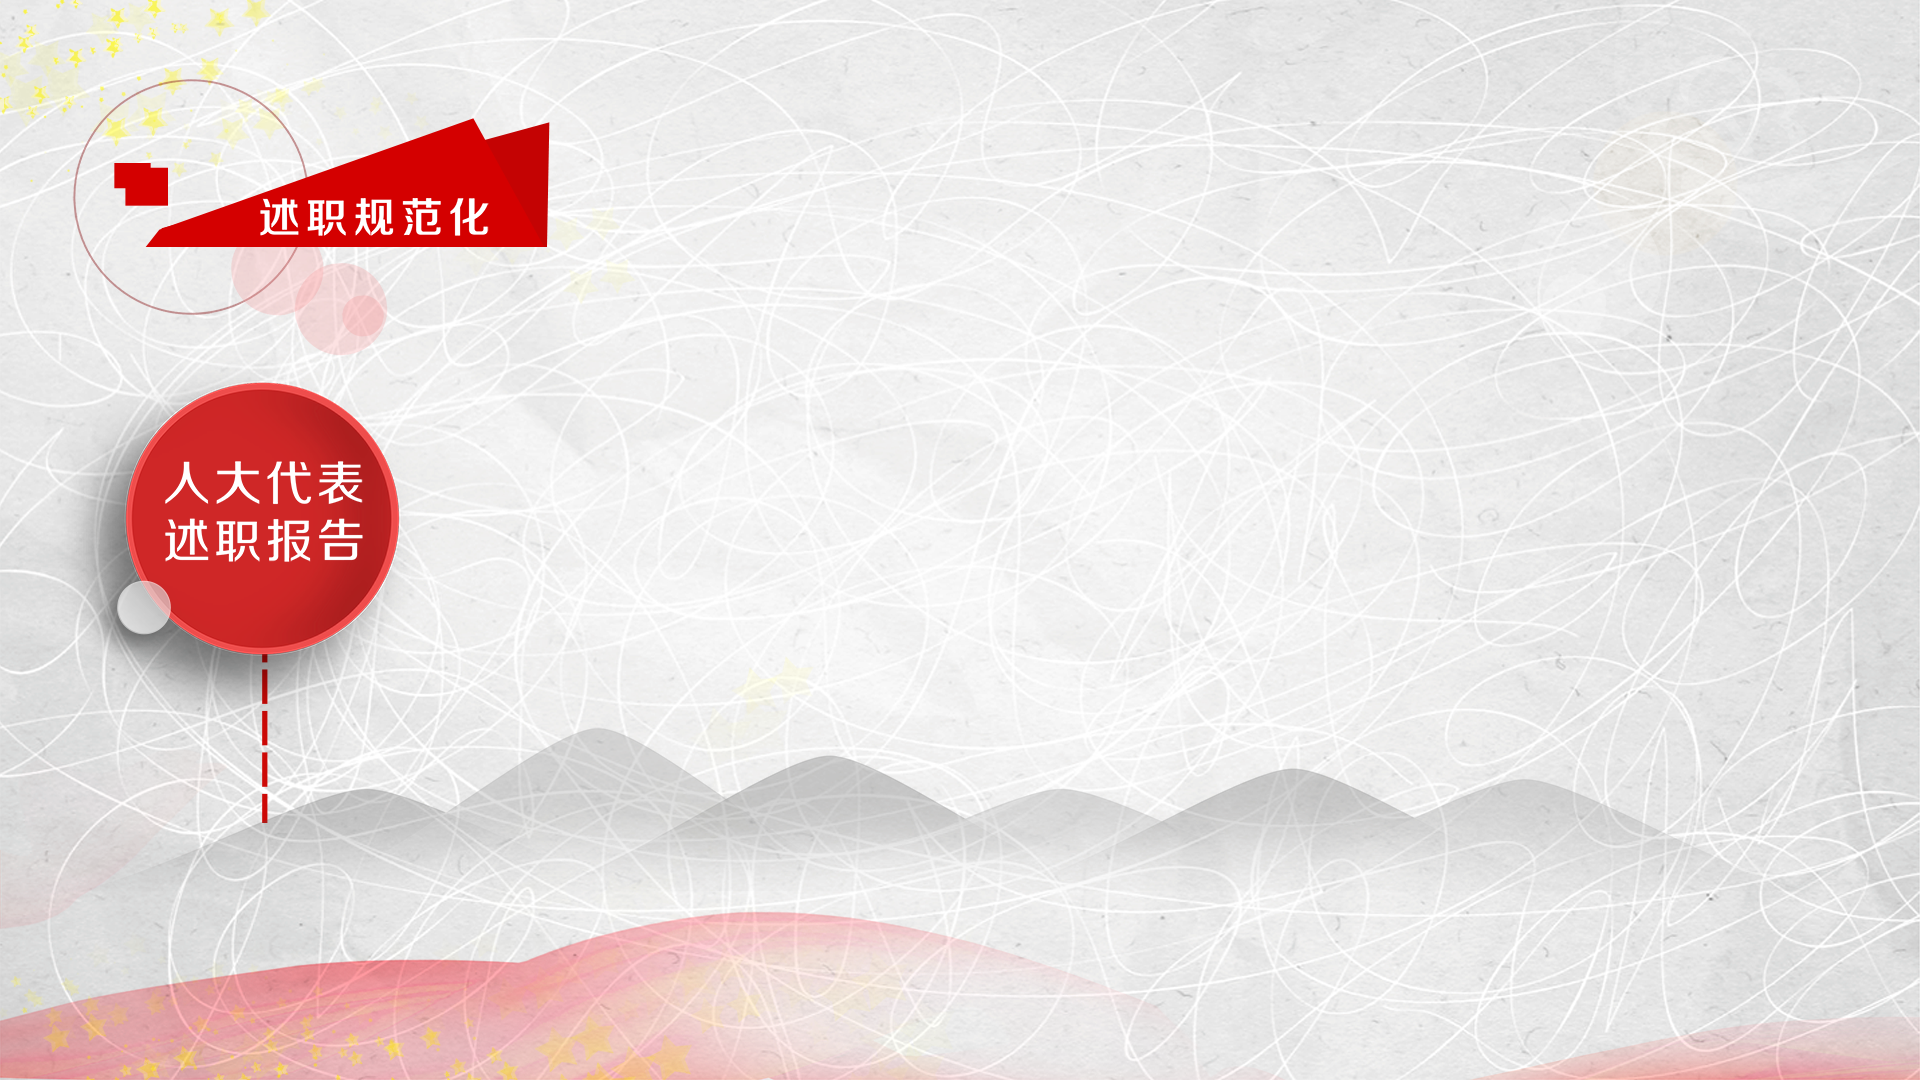
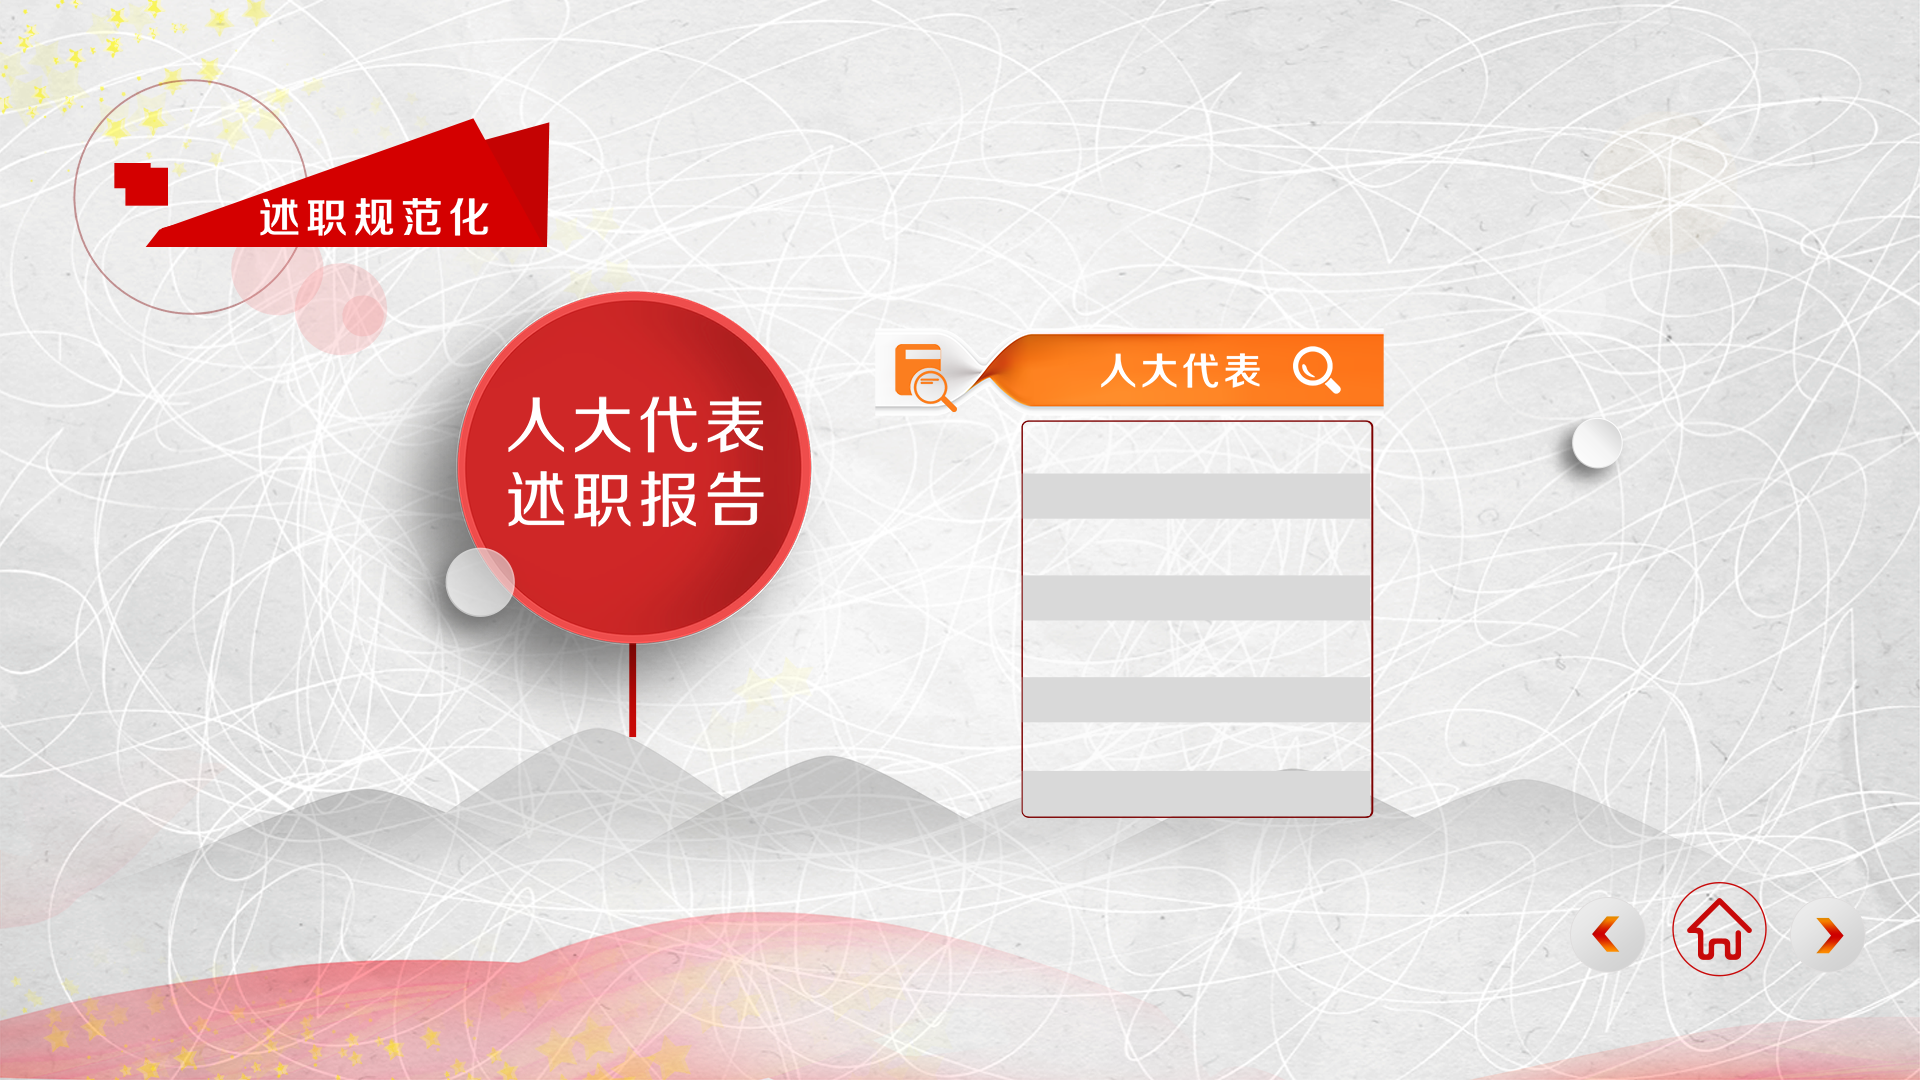
2016-09-22 00:27

diff --git a/src/components/2/2/Index.jsx b/src/components/2/2/Index.jsx
@@ -5,8 +5,9 @@ import Helper from '../../../common/Helper'
 import styles from './Index.less'
 
 let self
+let page = 1
+const limit = 8
 let list = []
-let count
 
 class Detail extends Component {
 
@@ -17,22 +18,12 @@ class Detail extends Component {
 
     this.state = {
       isLoad: false,
-      list: []
+      sonlist: []
     }
-
-    count = -1
   }
 
   componentDidMount() {
-    if(list.length == 0) {
-      self.load()
-    } else {
-      self.setState({
-        list: list
-      })
-
-      self.onClickMenu(list[0].id)
-    }
+    self.load()
   }
 
   load = function() {
@@ -48,11 +39,11 @@ class Detail extends Component {
       success: function(data) {
         list = data
 
-        self.setState({
-          list: data
-        })
+        self.count()
 
-        self.onClickMenu(data[0].id)
+        if(data.length > 0) {
+          self.onClickMenu(data[0].id)
+        }
       },
       complete: function() {
         self.setState({
@@ -60,6 +51,55 @@ class Detail extends Component {
         })
       }
     })
+  }
+
+  count() {
+    let array = []
+
+    let start = (page - 1) * limit
+    let end = start + limit
+
+    for(let i = 0; i < list.length; i++) {
+      if(i >= start && i < end) {
+        array.push(list[i])
+      }
+    }
+
+    self.setState({
+      sonlist: array
+    })
+  }
+
+  onClickUp() {
+    event.preventDefault()
+
+    if(page > 1) {
+      page--
+
+      this.count()
+    }
+  }
+
+  onClickDown() {
+    event.preventDefault()
+
+    if(page < Math.ceil(list.length / limit)) {
+      page++
+
+      this.count()
+    }
+  }
+
+  onClickLeft() {
+    event.preventDefault()
+
+    this.props.socket.emit('up', '')
+  }
+
+  onClickRight() {
+    event.preventDefault()
+
+    this.props.socket.emit('down', '')
   }
 
   onClickMenu(id) {
@@ -80,24 +120,12 @@ class Detail extends Component {
     return (
       <Spin size="large" spinning={this.state.isLoad}>
 	      <div className={styles.bg}>
-	      	<div className={styles.menu}>
+	      	<div className={styles.list}>
 	      		{
-	            this.state.list.map(function (item, index) {
-	            	if(index % 11 == 0) {
-	            		count++
-	            	}
+	            this.state.sonlist.map(function (item, index) {
 	              return (
-	              	<div key={index} >
-	              	{
-					            count % 2 == 0 ?
-			              	<div className={styles.menuItem0}>
-			              			<div className={styles.menuItemFont0} onClick={this.onClickMenu.bind(this, item.id)}>{item.personname}</div>
-			              	</div>
-			              	:
-			              	<div className={styles.menuItem1}>
-			              			<div className={styles.menuItemFont1} onClick={this.onClickMenu.bind(this, item.id)}>{item.personname}</div>
-			              	</div>
-					        }
+	              	<div key={index} className={styles.listItem} onClick={this.onClickMenu.bind(this, item.id)}>
+                    {item.personname}
 					        </div>
 	              )
 	            }.bind(this))
@@ -105,6 +133,12 @@ class Detail extends Component {
 	      	</div>
 	        <div className={styles.back} onClick={this.onClickBack.bind(this)}></div>
 	      </div>
+        <div className={styles.button}>
+          <div className={styles.button_0} onClick={this.onClickUp.bind(this)}></div>
+          <div className={styles.button_1} onClick={this.onClickDown.bind(this)}></div>
+        </div>
+        <div className={styles.menu_0} onClick={this.onClickLeft.bind(this)}></div>
+        <div className={styles.menu_1} onClick={this.onClickRight.bind(this)}></div>
       </Spin>
     )
   }

diff --git a/src/components/2/2/Index copy.jsx b/src/components/2/2/Index copy.jsx
@@ -1,0 +1,113 @@
+import React, { Component } from 'react'
+import { withRouter } from 'react-router'
+import { Spin } from 'antd'
+import Helper from '../../../common/Helper'
+import styles from './Index.less'
+
+let self
+let list = []
+let count
+
+class Detail extends Component {
+
+  constructor(props) {
+    super(props)
+
+    self = this
+
+    this.state = {
+      isLoad: false,
+      list: []
+    }
+
+    count = -1
+  }
+
+  componentDidMount() {
+    if(list.length == 0) {
+      self.load()
+    } else {
+      self.setState({
+        list: list
+      })
+
+      self.onClickMenu(list[0].id)
+    }
+  }
+
+  load = function() {
+    self.setState({
+      isLoad: true
+    })
+
+    Helper.ajax({
+      url: '/services/xzgfhPageContentML/4',
+      data: {
+
+      },
+      success: function(data) {
+        list = data
+
+        self.setState({
+          list: data
+        })
+
+        self.onClickMenu(data[0].id)
+      },
+      complete: function() {
+        self.setState({
+          isLoad: false
+        })
+      }
+    })
+  }
+
+  onClickMenu(id) {
+    event.preventDefault()
+
+    this.props.socket.emit('open', id)
+  }
+
+  onClickBack() {
+    event.preventDefault()
+
+    this.props.socket.emit('back', '')
+
+    self.props.router.goBack()
+  }
+
+  render() {
+    return (
+      <Spin size="large" spinning={this.state.isLoad}>
+	      <div className={styles.bg}>
+	      	<div className={styles.menu}>
+	      		{
+	            this.state.list.map(function (item, index) {
+	            	if(index % 11 == 0) {
+	            		count++
+	            	}
+	              return (
+	              	<div key={index} >
+	              	{
+					            count % 2 == 0 ?
+			              	<div className={styles.menuItem0}>
+			              			<div className={styles.menuItemFont0} onClick={this.onClickMenu.bind(this, item.id)}>{item.personname}</div>
+			              	</div>
+			              	:
+			              	<div className={styles.menuItem1}>
+			              			<div className={styles.menuItemFont1} onClick={this.onClickMenu.bind(this, item.id)}>{item.personname}</div>
+			              	</div>
+					        }
+					        </div>
+	              )
+	            }.bind(this))
+	          }
+	      	</div>
+	        <div className={styles.back} onClick={this.onClickBack.bind(this)}></div>
+	      </div>
+      </Spin>
+    )
+  }
+}
+
+export default withRouter(Detail)

diff --git a/src/components/2/2/Index.less b/src/components/2/2/Index.less
@@ -57,3 +57,58 @@
     background-repeat: no-repeat;
     cursor: pointer;
 }
+.list {
+    position: absolute;
+    top: 423px;
+    left: 1024px;
+    width: 359px;
+    height: 401px;
+}
+.listItem {
+    height: 50px;
+    text-align: center;
+    color: #fe8321;
+    font-size: 26px;
+    cursor: pointer;
+}
+.menu_0 {
+    position: absolute;
+    top: 890px;
+    left: 1568px;
+    width: 78px;
+    height: 78px;
+    cursor: pointer;
+}
+.menu_1 {
+    position: absolute;
+    top: 890px;
+    left: 1785px;
+    width: 78px;
+    height: 78px;
+    cursor: pointer;
+}
+.button {
+    position: absolute;
+    top: 320px;
+    left: 1520px;
+    width: 332px;
+    height: 530px;
+    background-image: url("../../../assets/image/button_up_down.png");
+    background-repeat: no-repeat;
+}
+.button_0 {
+    position: absolute;
+    top: 42px;
+    left: 110px;
+    width: 180px;
+    height: 180px;
+    cursor: pointer;
+}
+.button_1 {
+    position: absolute;
+    top: 250px;
+    left: 110px;
+    width: 180px;
+    height: 180px;
+    cursor: pointer;
+}

diff --git a/src/components/1/Detail.less b/src/components/1/Detail.less
@@ -56,7 +56,7 @@
 }
 .title {
     position: absolute;
-    top: 370px;
+    top: 420px;
     left: 990px;
     width: 500px;
     height: 30px;
@@ -65,16 +65,16 @@
 }
 .list {
     position: absolute;
-    top: 450px;
+    top: 500px;
     left: 990px;
     width: 540px;
     height: 600px;
 }
 .listItem {
-    height: 48px;
+    height: 49px;
     text-align: center;
     color: #fe8321;
-    font-size: 26px;
+    font-size: 25px;
     cursor: pointer;
 }
 .back {
@@ -85,5 +85,13 @@
     height: 95px;
     background-image: url("../../assets/image/button_back.png");
     background-repeat: no-repeat;
+    cursor: pointer;
+}
+.case {
+    position: absolute;
+    top: 277px;
+    left: 820px;
+    width: 728px;
+    height: 75px;
     cursor: pointer;
 }

diff --git a/src/components/1/Detail.jsx b/src/components/1/Detail.jsx
@@ -164,6 +164,7 @@ class Detail extends Component {
           <div className={styles.menu_0} onClick={this.onClickLeft.bind(this)}></div>
           <div className={styles.menu_1} onClick={this.onClickRight.bind(this)}></div>
           <div className={styles.back} onClick={this.onClickBack.bind(this)}></div>
+          <div className={styles.case}></div>
         </div>
       </Spin>
     )
